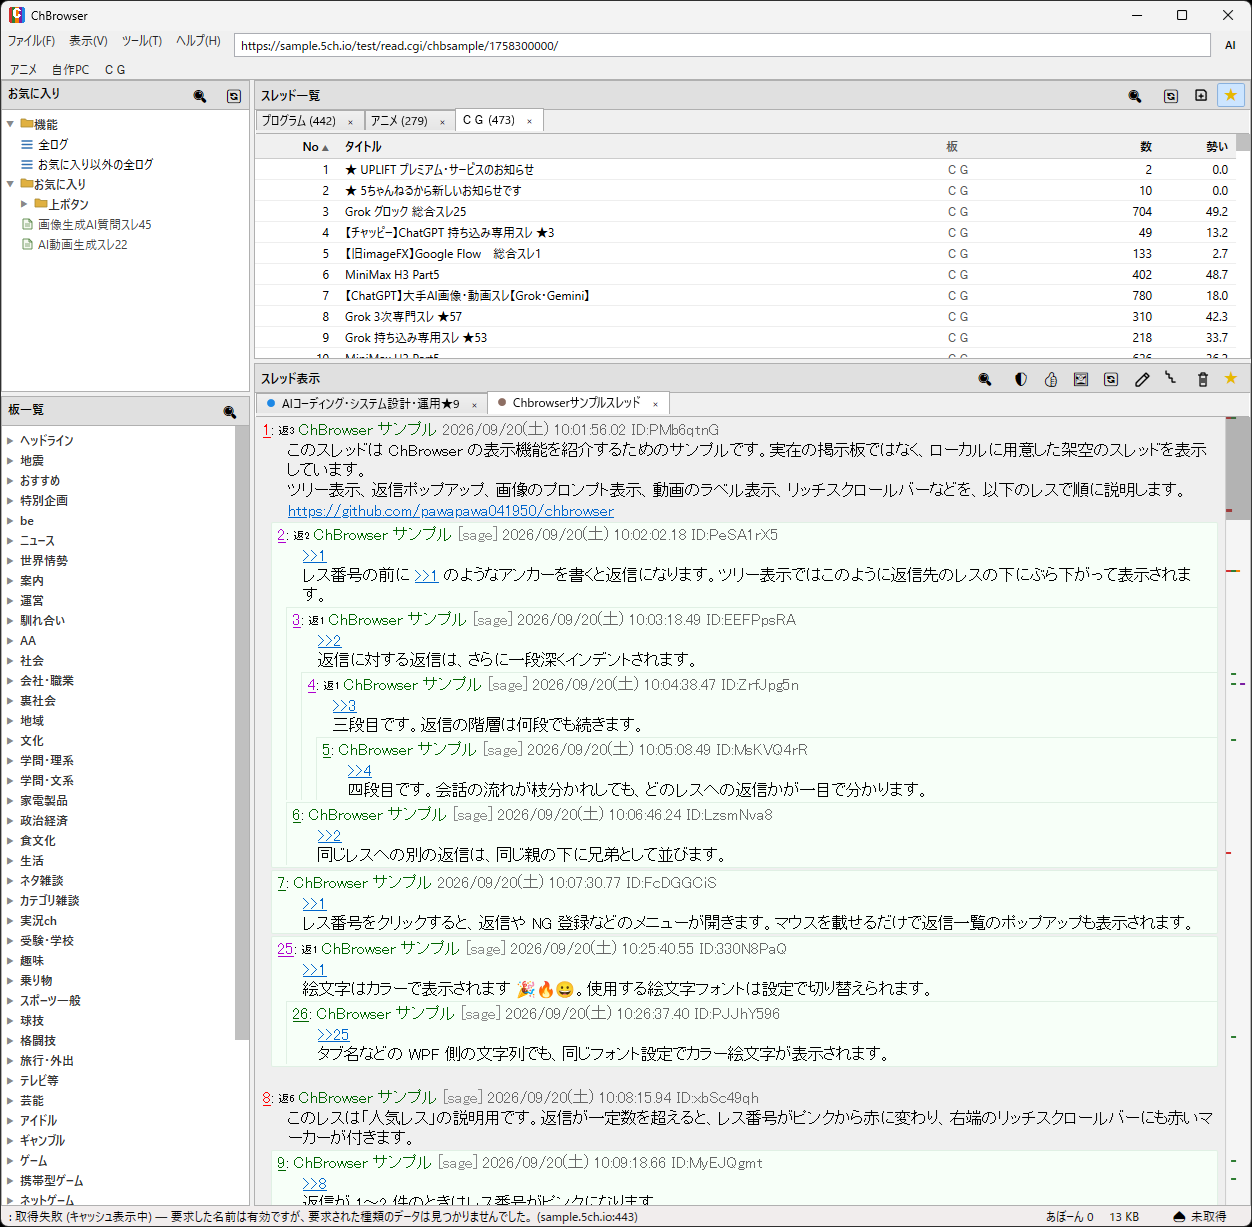
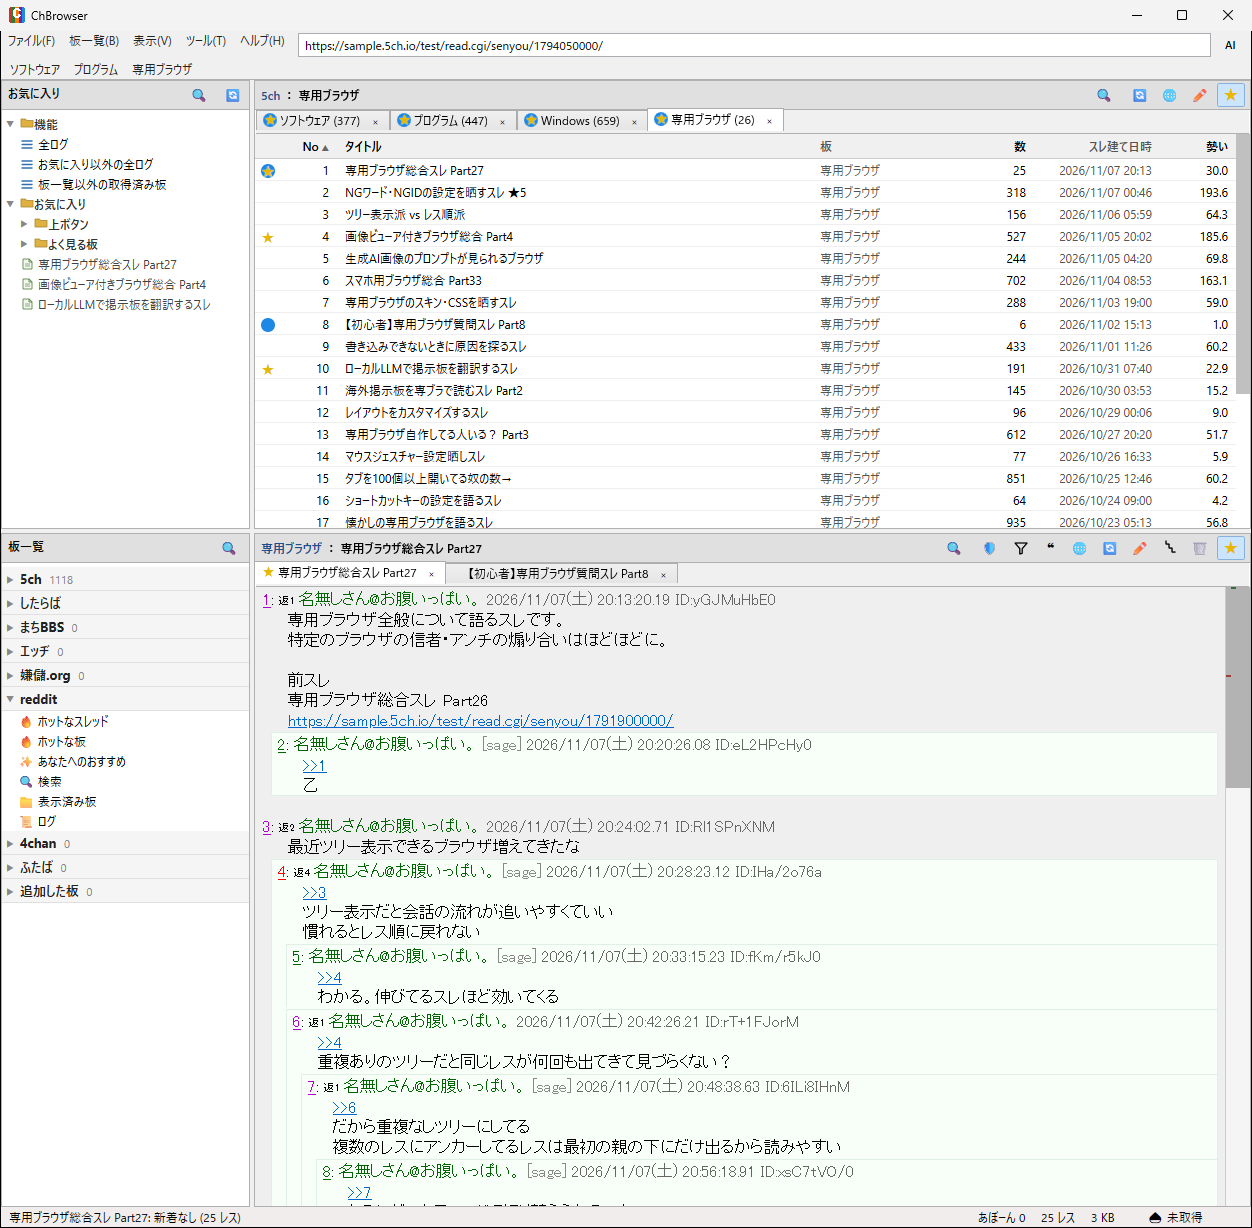
READMEのサンプル画像更新＆横幅を極端に縮めると表示が崩れるので修正

diff --git a/src/ChBrowser/Resources/thread-list.css b/src/ChBrowser/Resources/thread-list.css
@@ -21,6 +21,10 @@ thead th {
      * 同値だと document 順で tbody が後にあって貫通する。 */
     z-index: 10;
     font-weight: 600;
+    /* 列が狭くても見出しは折り返さない (折り返すと見出しの行が縦に太くなる)。収まらない分は省略。 */
+    white-space: nowrap;
+    overflow: hidden;
+    text-overflow: ellipsis;
 }
 thead th.sortable { cursor: pointer; user-select: none; }
 thead th.sortable:hover { background: #e4e4e4; }

diff --git a/src/ChBrowser/Controls/ColorEmojiTextBlock.cs b/src/ChBrowser/Controls/ColorEmojiTextBlock.cs
@@ -193,11 +193,15 @@ public sealed class ColorEmojiTextBlock : FrameworkElement
     protected override void OnRender(DrawingContext dc)
     {
         // Arrange 後の実幅で描画結果を確定 (trimming 幅を実際の割当幅に合わせる)。
-        var maxW = ActualWidth > 0 ? ActualWidth : _size.Width;
-        EnsureRendered(maxW);
+        // 幅を 0 にされた (= 親が幅を配れなかった) ときは描かない。以前は 0 のとき全文の幅で描いてしまい、
+        // ペインのヘッダが狭いとスレタイが隣のボタンに重なっていた。描画は割当幅で切る (はみ出さない)。
+        if (ActualWidth <= 0) return;
+        EnsureRendered(ActualWidth);
+        dc.PushClip(new RectangleGeometry(new Rect(0, 0, ActualWidth, Math.Max(ActualHeight, _size.Height))));
         if (_bmp is not null)
             dc.DrawImage(_bmp, new Rect(0, 0, _size.Width, _size.Height));
         else if (_fallback is not null)
             dc.DrawText(_fallback, new Point(0, 0));
+        dc.Pop();
     }
 }

diff --git a/README.md b/README.md
@@ -13,7 +13,7 @@ Windows 用の掲示板ブラウザ (5ch.io / bbspink、したらば、まちBBS
 - **ポータブル構成** 設定ファイルはexeのあるフォルダに保存
 - **4 ペイン構成** かちゅ～しゃやJaneなどの一般的なレイアウトをデフォルトとし、ペインヘッダのドラッグでレイアウトを自由に変更可  
   <div align="center">
-  <a href="img/sample4.png"><img src="img/sample4.png" width="400"></a>
+  <a href="img/sample4.webp"><img src="img/sample4.webp" width="400"></a>
   </div>
 - **5chライクデザイン** 全掲示板を5chライクなデザインでなおかつツリーで表示。ふたばの引用文による返信もツリー化して表示可能
 - **スレ表示モード** レス順 / ツリー (重複あり) / ツリー (重複なし) を切替可
